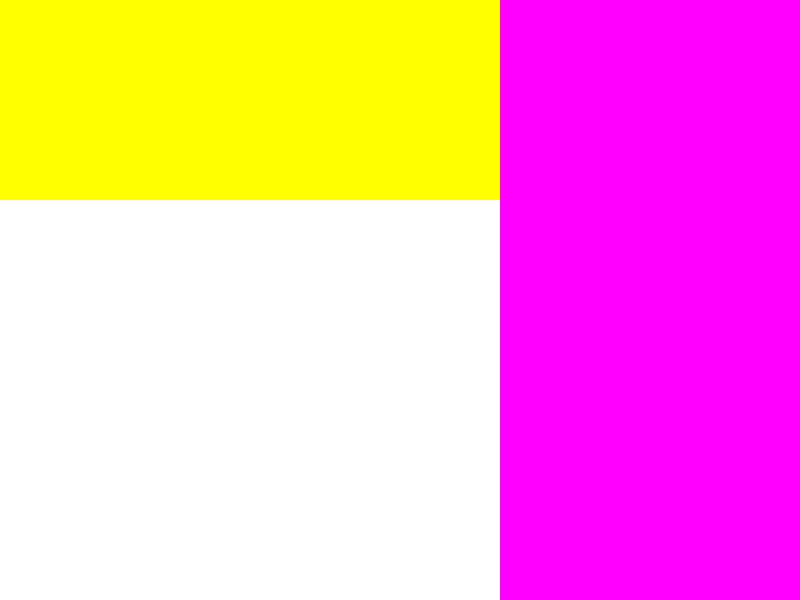
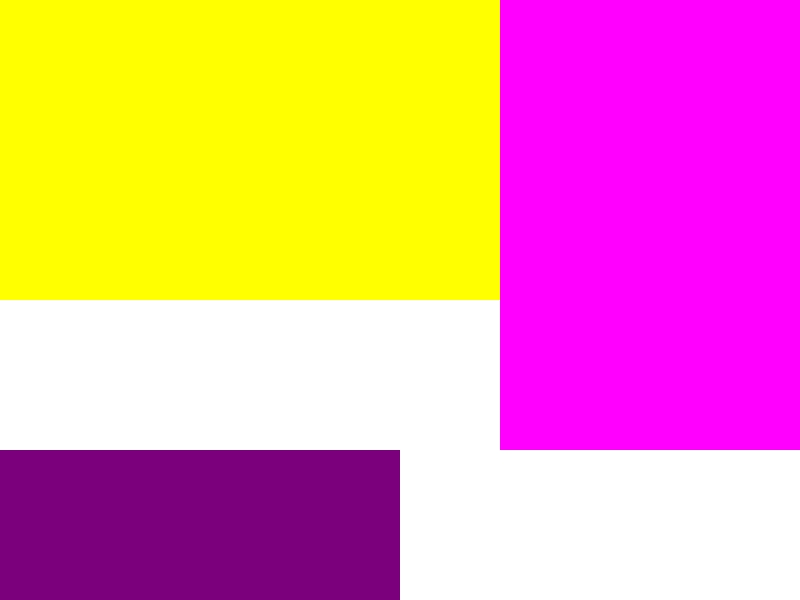
[jackQ] - add - week - 07 - fix layout bug

diff --git a/week07/net/js/layout.js b/week07/net/js/layout.js
@@ -119,6 +119,7 @@ class CssLayout {
 
 
   layout(element) {
+    // console.log('element', element);
     // computedStyle 不存在时不做处理
     if(!element.computedStyle){
       return;
@@ -133,20 +134,19 @@ class CssLayout {
     const items = element.children.filter((i) => i.type === 'element');
     // 根据 order 进行元素的排序
     items.sort((a, b) => (a.order || 0) - (b.order || 0));
-
     const style = elementStyle;
-    // 对style中的宽高属性初始化 [height, witdh]
+    // // 对style中的宽高属性初始化 [height, witdh]
     this.initHeightAndWidth(style);
-    // // 对style中flex 相关属性进行初始化
+    // // // 对style中flex 相关属性进行初始化
     this.initFlexSingleProperties(style)
     // 根据flexDirection 确定数据处理相关的状态
     // 即根据排列方向 确定排列计算规则
     const rule = this.abstractCalculationRule(style);
     if(rule) {
-      // let {
-      //   mainSize, mainStart, mainEnd, mainSign, mainBase, crossSize,
-      //   crossStart, crossEnd, crossSign, crossBase
-      // } = rule;
+      let {
+        mainSize, mainStart, mainEnd, mainSign, mainBase, crossSize,
+        crossStart, crossEnd, crossSign, crossBase
+      } = rule;
       const isAutoSize = this.isAutoMainSize(style, rule);
       // 计算父级容器的主轴大小
       if(isAutoSize){
@@ -156,7 +156,6 @@ class CssLayout {
       const {
         flexLines, mainSpace
       } = this.spliteLines(style, items, rule, isAutoSize);
-
       this.getCurrentMain(flexLines, items, style, rule, mainSpace);
       this.getCrossSpace(style, flexLines, rule);
     }
@@ -266,13 +265,14 @@ class CssLayout {
     // 当前行元素
     let flexLine = [];
     // display 为 flex的元素下 的 所有元素
-    const flexLines = [flexLine];
+    const flexLines = [];
     // 当前主轴已排的元素的大小
     let mainSpace = style[mainSize];
     // 交叉轴一排元素的大小
     let crossSpace = 0;
     items.map((item, index) => {
-      const itemStyle = this.getStyle(item);
+      const itemStyle = this.getStyle(items[index]);
+      // console.log(item, itemStyle);
       // 当前元素没有设置宽度，则宽度视为0,即忽律该元素
       if(itemStyle[mainSize] === null){
         itemStyle[mainSize] = 0;
@@ -287,12 +287,13 @@ class CssLayout {
         // 当前元素存在 flex 属性时，元素可伸缩，则当前行一定能放入该元素
         if(itemStyle.flex) {
           flexLine.push(item);
+          mainSpace -= 0;
         }else {
           // 当前元素主轴大于父容器的主轴大小时
           if(itemStyle[mainSize] > style[mainSize]){
             itemStyle[mainSize] = style[mainSize]
           }
-          // 剩余空间小于当前元素主轴大小时
+          // 剩余空间小于当前元素大小时
           if(mainSpace < itemStyle[mainSize]){
             // 保存当前行主轴剩余大小
             // 为后续弹性填充时，提供计算数据
@@ -301,6 +302,7 @@ class CssLayout {
             flexLine.crossSpace = crossSpace;
             // 如果已存在元素
             if(flexLine.length > 0){
+              // console.log(item.attributes[0].value, 'here');
               flexLines.push(flexLine);
             }
             mainSpace = style[mainSize];
@@ -308,10 +310,14 @@ class CssLayout {
             flexLine = [item];
             // 如果另起一行后当前元素还是大于父容器主轴剩余大小
             // 则当前元素独占一行
-            // if(mainSpace < itemStyle[mainSize]){
-            //   flexLines.push(flexLine);
-            //   flexLine = [];
-            // }
+            if(mainSpace <= itemStyle[mainSize] || (items.length - 1) === index){
+              // 为后续弹性填充时，提供计算数据
+              flexLine.mainSpace = 0;
+              // 保存当前行交叉轴大小
+              flexLine.crossSpace = crossSpace;
+              flexLines.push(flexLine);
+              flexLine = [];
+            }
           }else {
             flexLine.push(item);
           }
@@ -329,7 +335,6 @@ class CssLayout {
         this.getLineCrossSpace(style, flexLine, isAutoSize, rule, crossSpace)
       }
     })
-
     return {
       flexLines, mainSpace
     }
@@ -410,11 +415,11 @@ class CssLayout {
 
         if(flexTotal) {
           // flexible items
-          this.calculateItemSite({items, rule, mainSpace, flexTotal});
+          this.calculateItemSite({items: flexLine, rule, mainSpace, flexTotal});
         }else {
           // no flexible items
           const { step, currentMain } = this.getNoFlexibleCurrentAndStep(style, items, rule, mainSpace);
-          this.calculateItemSite({items, rule, mainSpace, flexTotal, step, currentMain})
+          this.calculateItemSite({items: flexLine, rule, mainSpace, flexTotal, step, currentMain})
         }
       })
 
@@ -457,13 +462,12 @@ class CssLayout {
     const baseLineCrossSize = style['align-content'] === 'stretch' ? crossSpace / flexLines.length : 0;
     flexLines.map((flexLine) => {
       const lineCrossSize = baseLineCrossSize + flexLine.crossSpace;
-      flexLine.map((item) => {
+      flexLine.map((item, index) => {
         const itemStyle = this.getStyle(item);
         const align = itemStyle['align-self'] || style['align-items'];
         if(itemStyle[crossSize] === null){
           itemStyle[crossSize] = align === 'stretch' ? lineCrossSize : 0;
         }
-
         if(align === 'flex-start'){
           itemStyle[crossStart] = crossBase;
           itemStyle[crossEnd] = itemStyle[crossStart] + crossSign * itemStyle[crossSize];

diff --git a/week07/net/js/server.js b/week07/net/js/server.js
@@ -9,15 +9,24 @@ const server = http.createServer((_, res) => {
     `<Html maaa='a'>
   	<head>
   		<style>
-         #container { display: flex; background-color: rgb(255,255,255); width: 800px; height: 600px; }
-         #container #myid { width: 500px; height: 200px; background-color: rgb(255,255,0) }
+         #container { display: flex; background-color: rgb(255,255,255); flex-wrap: wrap; width: 800px; height: 600px; }
+         #container #myid { width: 500px; height: 300px; background-color: rgb(255,255,0); display: flex; }
+         #id1 { flex: 1; height: 200px; background-color: rgb(255,123,0) }
+         #id2 { flex: 1; height: 200px; background-color: rgb(255,0,0) }
          #container .c1 { flex:1; background-color: rgb(255,0,255) }
+         #container .c2 { width: 400px; background-color: rgb(123,0,123) }
   		</style>
   	</head>
   	<body>
   		<div id='container'>
-        <div id="myid"></div>
+        <div id="myid">
+          <div id='id1'>
+          </div>
+          <div id='id2'>
+          </div>
+        </div>
         <div class='c1'></div>
+        <div class='c2'></div>
   		</div>
   	</body>
   </Html>`

diff --git a/week07/collect/te.html b/week07/collect/te.html
@@ -1,15 +1,24 @@
 <Html maaa='a'>
 <head>
   <style>
-     #container { display: flex; background-color: rgb(255,255,255) }
-     #container #myid { width: 500px; height: 200px; background-color: rgb(255,255,0) }
+     #container { display: flex; background-color: rgb(255,255,255); flex-wrap: wrap; width: 800px; height: 600px; }
+     #container #myid { width: 500px; height: 300px; background-color: rgb(255,255,0); display: flex; }
+     #id1 { flex: 1; height: 200px; background-color: rgb(255,123,0) }
+     #id2 { flex: 1; height: 200px; background-color: rgb(255,0,0) }
      #container .c1 { flex:1; background-color: rgb(255,0,255) }
+     #container .c2 { width: 400px; background-color: rgb(123,0,123) }
   </style>
 </head>
 <body>
-  <Div id='container'>
-    <div id="myid"/>
-    <div class='c1'/>
-  </Div>
+  <div id='container'>
+    <div id="myid">
+      <div id='id1'>
+      </div>
+      <div id='id2'>
+      </div>
+    </div>
+    <div class='c1'></div>
+    <div class='c2'></div>
+  </div>
 </body>
 </Html>

diff --git a/week07/net/js/render.js b/week07/net/js/render.js
@@ -9,7 +9,7 @@ function render(view, element) {
       const color = element.style['background-color'] || 'rgb(0,0,0)';
       color.match(/rgb\((\d+),(\d+),(\d+)\)/);
       img.fill(Number(RegExp.$1),Number(RegExp.$2),Number(RegExp.$3), 1);
-      view.draw(img, element.style.left || 0, element.style.top || 0)
+      view.draw(img, Number(element.style.left || 0), Number(element.style.top || 0))
     }
   }
 

diff --git a/week07/net/js/parser.js b/week07/net/js/parser.js
@@ -76,7 +76,7 @@ function emitToken(token) {
         }
         stack.pop();
       }
-      Layout.layout(top)
+      Layout.layout(top);
       currentTextNode = null
   }else if (token.type === 'text') {
       if(currentTextNode === null){

diff --git a/week07/net/js/client.js b/week07/net/js/client.js
@@ -324,7 +324,9 @@ void async function() {
 
   let dom = parser.parserHTML(response.body);
 
-  let view = images(800, 600);
+  const view = images(800, 600);
+
+  // console.log('dom', JSON.stringify(dom));
 
   render(view, dom);
 
